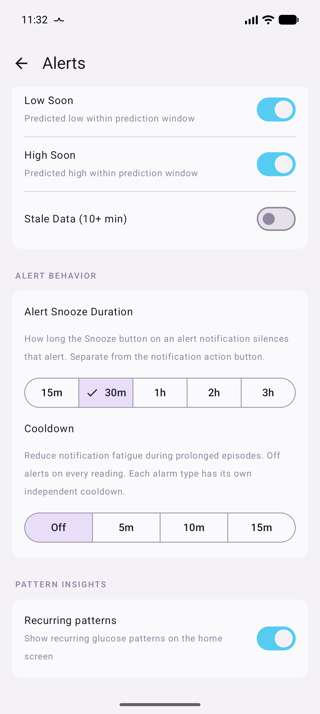
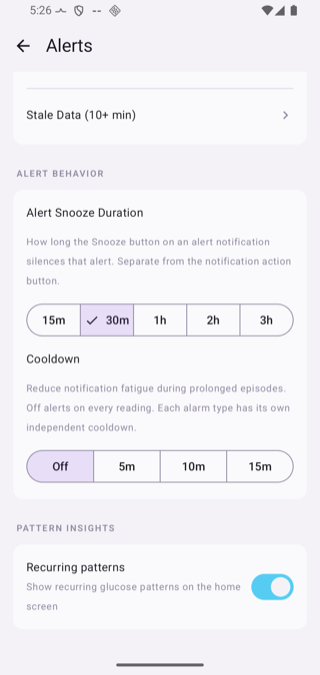
docs: retake the stale Alerts screenshot and require retakes (#345)
pattern-settings.png showed the Exercise alert rows above Alert Behavior.
The Alerts screen now shows the Sounds rows there, so the screenshot is
retaken from an emulator at the same framing and width.

The documentation rule told agents to flag a stale screenshot, so a known
wrong image could ship. The rule in CLAUDE.md and AGENTS.md, the docs
reminder hook and the release skill now require retaking it in the same PR.

diff --git a/AGENTS.md b/AGENTS.md
@@ -95,7 +95,7 @@ Any user-visible change is not done until docs are checked. Before declaring wor
 
 1. **Grep `docs/` for references** to the changed feature (screen name, setting name, behavior). Update any doc pages that describe changed behavior.
 2. **If no docs exist** for a user-visible feature, write them. Match the structure and style of existing `docs/guide/` pages.
-3. **Grep affected doc pages for `screenshots/`** references. Flag any screenshot that may be stale: "Screenshot `X.png` may be stale — [reason]."
+3. **Grep affected doc pages for `screenshots/`** references. Open each referenced screenshot and compare it with the changed screen. Retake every screenshot that no longer matches, on an emulator with `scripts/capture_doc_screenshot.py`, at the same framing and width as the old one. Do this in the same PR as the change.
 
 Skip only for pure refactors with zero user-visible change.
 

diff --git a/CLAUDE.md b/CLAUDE.md
@@ -93,7 +93,7 @@ Any user-visible change is not done until docs are checked. Before declaring wor
 
 1. **Grep `docs/` for references** to the changed feature (screen name, setting name, behavior). Update any doc pages that describe changed behavior.
 2. **If no docs exist** for a user-visible feature, write them. Match the structure and style of existing `docs/guide/` pages.
-3. **Grep affected doc pages for `screenshots/`** references. Flag any screenshot that may be stale: "Screenshot `X.png` may be stale — [reason]."
+3. **Grep affected doc pages for `screenshots/`** references. Open each referenced screenshot and compare it with the changed screen. Retake every screenshot that no longer matches, on an emulator with `scripts/capture_doc_screenshot.py`, at the same framing and width as the old one. Do this in the same PR as the change.
 
 Skip only for pure refactors with zero user-visible change.
 

diff --git a/.claude/skills/release/SKILL.md b/.claude/skills/release/SKILL.md
@@ -56,7 +56,7 @@ Check docs for staleness against the release changes:
 git diff --name-only ${LAST_TAG}..main -- docs/
 ```
 
-For every user-visible change in the release, grep `docs/` for references to the changed feature or behavior. Update affected docs, and flag screenshots that may be stale.
+For every user-visible change in the release, grep `docs/` for references to the changed feature or behavior. Update affected docs, and retake every screenshot that no longer matches the app.
 
 ### 4. Run what the merged PRs left untested
 
